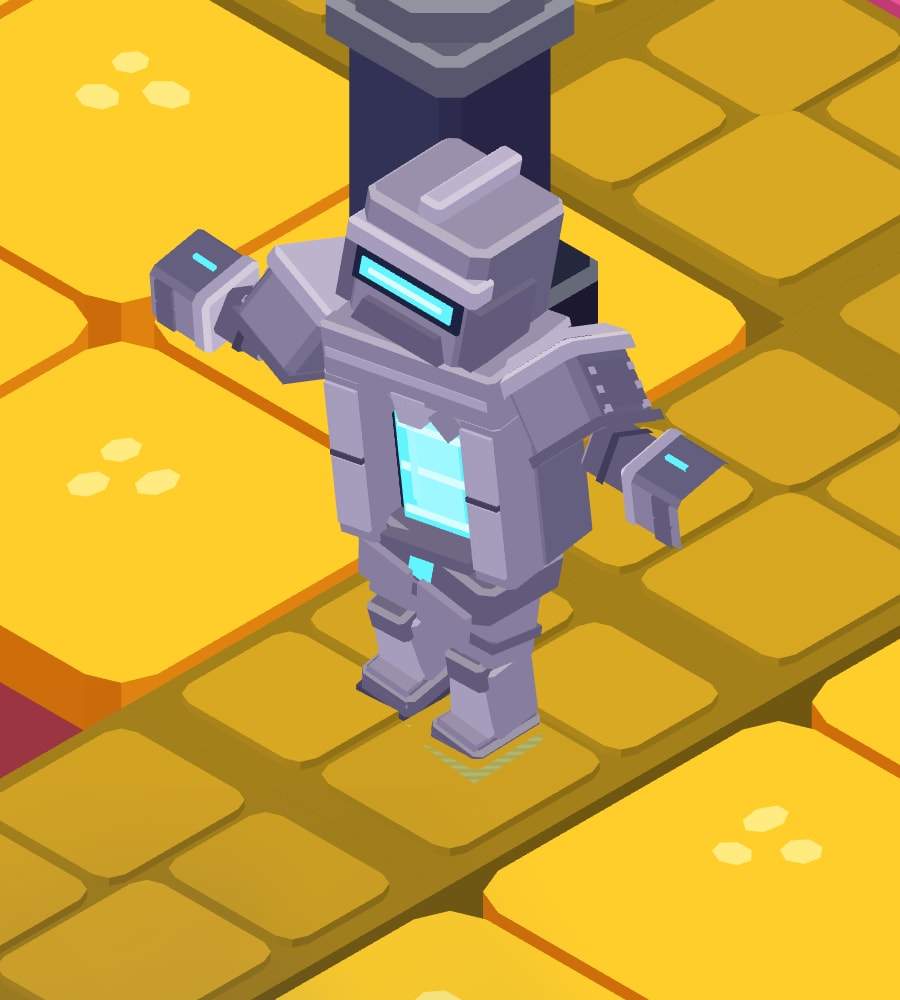
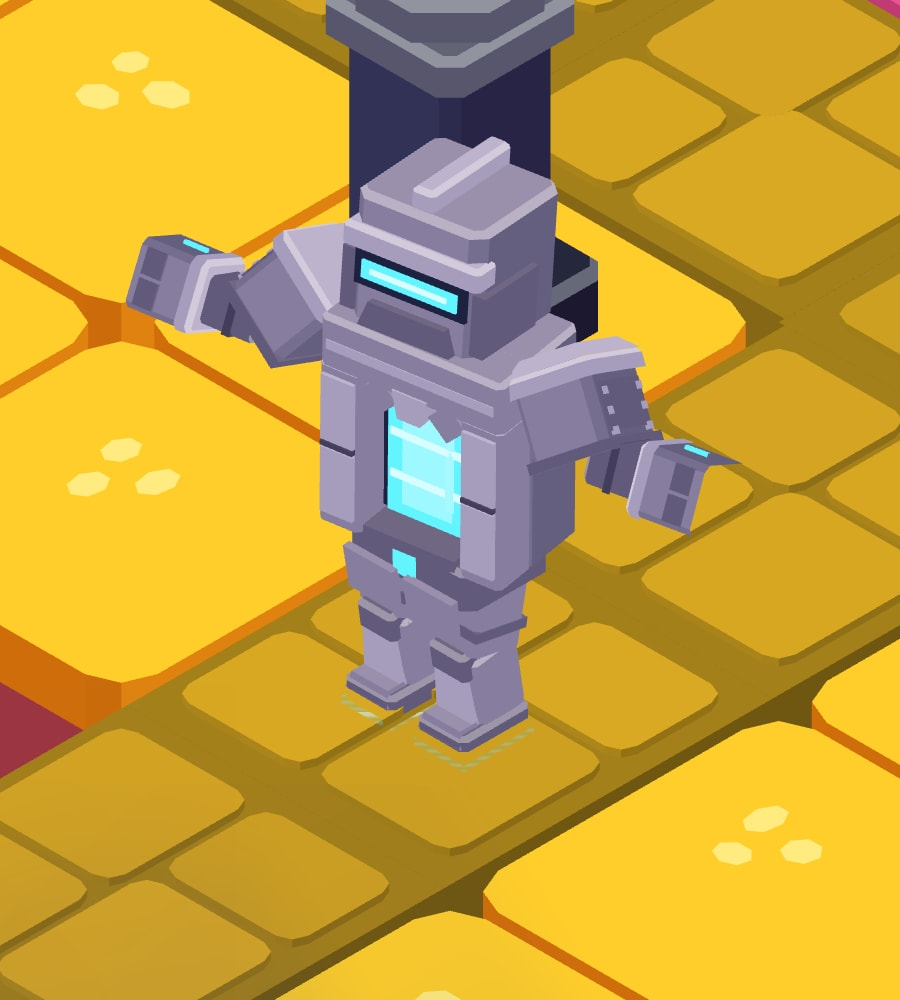
Re-render the character select previews from the final class heroes

Changed region(s): [[0.1244, 0.124, 0.8089, 0.775]]

diff --git a/landing/themes/souls.js b/landing/themes/souls.js
@@ -1,5 +1,5 @@
 const data = await (await fetch(new URL("../classes.json", import.meta.url))).json();
-const HERO_V = "1";
+const HERO_V = "2";
 const heroArt = (id) => new URL(`../hero-${id}.jpg?v=${HERO_V}`, import.meta.url).href;
 
 const css = `
